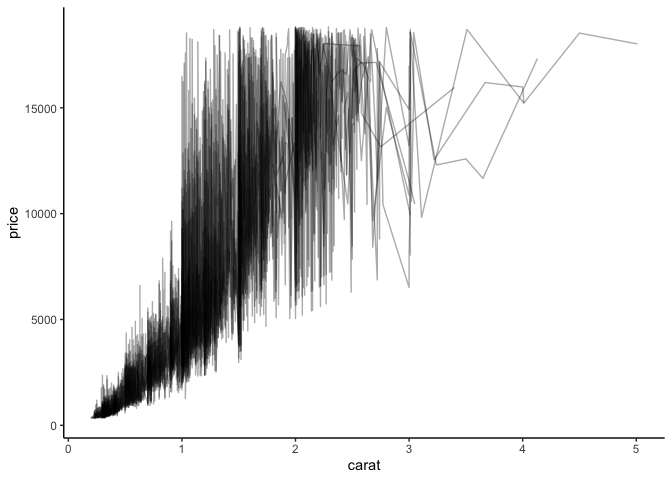
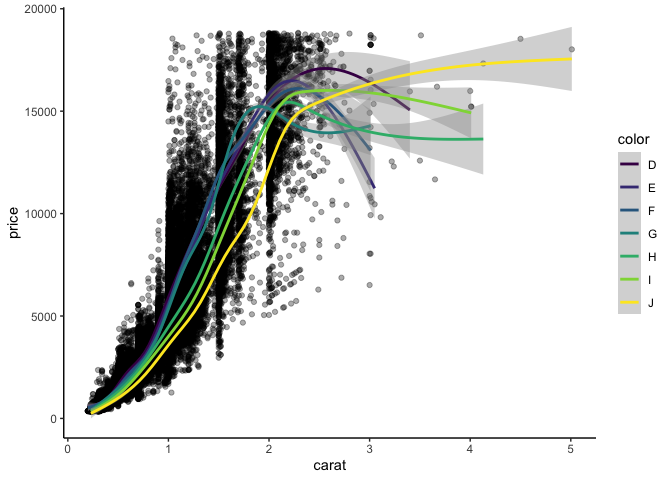
update HW8 markdown figure 1

diff --git a/HW8/HW8.md b/HW8/HW8.md
@@ -17,9 +17,12 @@ library(viridis)
 theme_set(theme_classic())
 
 #plot data without a linear model
-ggplot(diamonds, aes(carat, price, group=color))+
-  geom_line(alpha=.33)
+ggplot(diamonds, aes(carat, price))+
+  geom_point(alpha=.33)+
+  geom_smooth(aes(carat, price, group=color, color = color))
 ```
+
+    ## `geom_smooth()` using method = 'gam' and formula 'y ~ s(x, bs = "cs")'
 
 ![](HW8_files/figure-gfm/unnamed-chunk-2-1.png)<!-- -->
 
